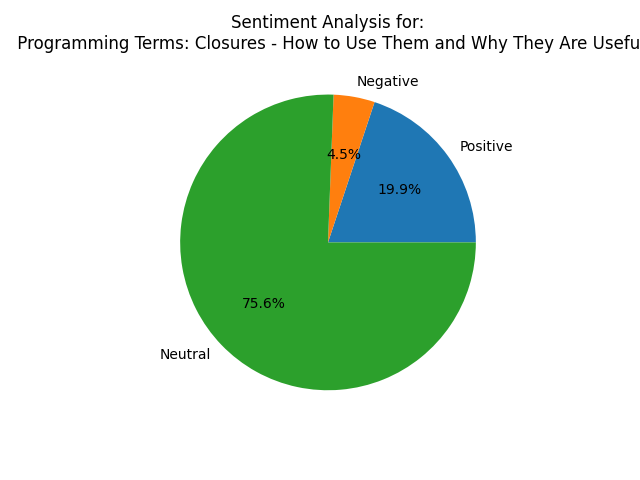
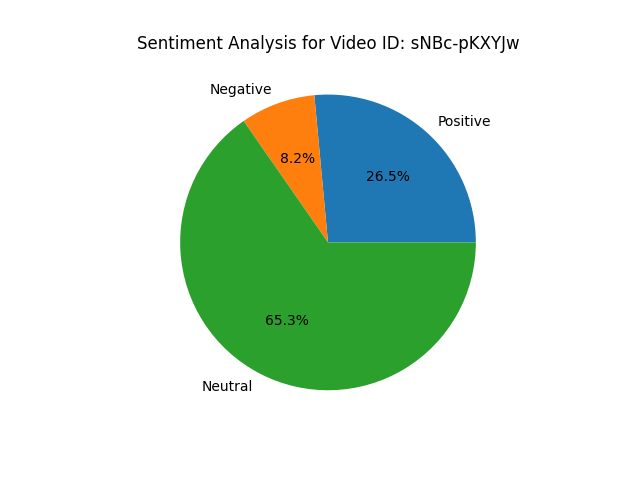
change in code quality

diff --git a/Templates/index.html b/Templates/index.html
@@ -73,21 +73,22 @@
     </form>
 
     <input type="text" id="myInput" onkeyup="myFunction()" placeholder="Search for names..">
-      <table id="myTable">
-        <tr class="header">
-          <th style="width:40%;">Id</th>
-          <th style="width:60%;">Name</th>
-          <th style="width:40%;">Watch</th>
-          <th style="width:40%;">Analyse</th>
-        </tr>
-        {% for video, id in videos %}
-        <tr>
-          <td>{{loop.index}}</td>
-          <td>{{video}}</td>
-          <td><a href="https://www.youtube.com/watch?v={{id}}">Watch</a></td>
-          <td><a href="/anaylse/{{id}}">Analyse</a></td>
-        </tr>
-        {% endfor %}
-      </table>
+    <table id="myTable">
+      <tr class="header">
+          <th style="width:20%;">#</th>
+          <th style="width:40%;">Name</th>
+          <th style="width:20%;">Watch</th>
+          <th style="width:20%;">Analyse</th>
+      </tr>
+      {% for video_id, video_title in videos %}
+      <tr>
+          <td>{{ loop.index }}</td>
+          <td>{{ video_title }}</td>
+          <td><a href="https://www.youtube.com/watch?v={{ video_id }}">Watch</a></td>
+          <td><a href="/analyse/{{ video_id }}">Analyse</a></td>
+      </tr>
+      {% endfor %}
+  </table>
+  
   </body>
 </html>

diff --git a/API.py b/API.py
@@ -1,110 +1,64 @@
-import json
+import os
+import re
 import googleapiclient.discovery
-import nltk, string, re
-from nltk.tokenize import word_tokenize
+import nltk
 from nltk.corpus import stopwords
+from nltk.tokenize import word_tokenize
 from nltk.sentiment.vader import SentimentIntensityAnalyzer
-import matplotlib.pyplot as plt
+import string
+
+# Download necessary NLTK data
 nltk.download('vader_lexicon')
+nltk.download('punkt')
+nltk.download('stopwords')
+
 class YouTubeAPI:
-    get_name = dict()
-    video_data = dict()
-    API_KEY = ""
-    def __init__ (self, API_KEY):
+    def __init__(self):
         api_service_name = "youtube"
         api_version = "v3"
-        self.youtube = googleapiclient.discovery.build(
-            api_service_name, api_version, developerKey=API_KEY)
-        self.API_KEY = API_KEY
+        # developer_key = os.getenv("YOUTUBE_API_KEY")  # Use environment variable for API key
+        developer_key ="AIzaSyC3xxbqxbioB1jCH5gpzT-sT0zXsCbMBn4"  # Use environment variable for API key
+        self.youtube = googleapiclient.discovery.build(api_service_name, api_version, developerKey=developer_key)
 
-
-    # to get the video ids and video names repectively
-    def run(self, CHANNEL_ID):
-        # print(CHANNEL_ID)
+    def get_video_data(self, channel_id, max_results=13):
         request = self.youtube.search().list(
             part="snippet",
             type="video",
-            channelId=CHANNEL_ID,
-            maxResults=13
+            channelId=channel_id,
+            maxResults=max_results
         )
         response = request.execute()
-        for item in response['items']:
-            title = item['snippet']['title']
-            videoId = item['id']['videoId']
-            # print(item,"\n")
-            self.get_name[videoId] = title
-            self.video_data[title] = videoId
-        return self.video_data
+        video_data = {item['id']['videoId']: item['snippet']['title'] for item in response['items']}
+        return video_data
 
+    def get_comments(self, video_id):
+        comments = []
+        next_page_token = None
 
-    # to get the comments of a particular video returns a response
+        while True:
+            response = self.search_comments(video_id, next_page_token)
+            next_page_token, result = self.process_comments_response(response)
+            comments.extend(result)
+            if not next_page_token:
+                break
+
+        return comments
+
     def search_comments(self, video_id, page_token):
         request = self.youtube.commentThreads().list(
             part="snippet",
             videoId=video_id,
             pageToken=page_token,
-            maxResults=1000
+            maxResults=100
         )
-        response = request.execute()
-        return response
-    # retuns a list of comments of a particular video and next page token to scroll through the comments
-    # (Not all the comments can be retrieved at once)
+        return request.execute()
+
     def process_comments_response(self, response):
         next_page_token = response.get('nextPageToken')
-        result = []
-        for i, item in enumerate(response["items"]):
-            comment = item["snippet"]["topLevelComment"]
-            comment_text = comment["snippet"]["textDisplay"]
-            result.append(comment_text)
+        comments = [item["snippet"]["topLevelComment"]["snippet"]["textDisplay"] for item in response["items"]]
+        return next_page_token, comments
 
-        return next_page_token, result
-    
-
-    # Combining search_comments and process_comments_response to get all the comments of a particular video
-    def getComments(self, videoId):
-        comments = []
-        dataExtractor = YouTubeAPI(self.API_KEY)# API Key
-        next_page = None
-        while True:
-            response = dataExtractor.search_comments(videoId, next_page)
-            next_page, result = dataExtractor.process_comments_response(response, self.videos)
-            comments += result
-            if not next_page:
-                break
-        return comments
-    
-    # running the sentiment analysis on the comments using the videoId
-# def getData(APIKEY = "AIzaSyC3xxbqxbioB1jCH5gpzT-sT0zXsCbMBn4", CHANNELID = "UCLj_i7yL-8FZrdQA6eE4iqQ"):
-#     comments = []
-#     dataExtractor = YouTubeAPI(APIKEY)# API Key
-#     videos = list(dataExtractor.run(CHANNELID).keys())#Channel ID
-#     print("Videos: \n", videos)
-#     video_id = dataExtractor.video_data[videos[int(input("Enter the video number: ")) - 1]]
-#     # print(dataExtractor.search_comments(video_id, None))
-#     next_page = None
-#     while True:
-#         response = dataExtractor.search_comments(video_id, next_page)
-#         next_page, result = dataExtractor.process_comments_response(response, videos)
-#         comments += result
-#         if not next_page:
-#             break
-#     return comments
-def getData(APIKEY, CHANNELID, VideoId):
-    dataExtractor = YouTubeAPI(APIKEY)# API Key
-    # video_data = dataExtractor.run(CHANNELID)#Channel ID
-    comments = []
-    next_page = None
-    while True:
-        response = dataExtractor.search_comments(VideoId, next_page)
-        next_page, result = dataExtractor.process_comments_response(response)
-        comments += result
-        if not next_page:
-            break
-    # print(dataExtractor.get_name)
-    # print(dataExtractor.get_name.keys() == dataExtractor.video_data.values())
-    # print(dataExtractor.video_data.keys() == dataExtractor.get_name.values())
-    return comments,dataExtractor.get_name[VideoId]
-def remove_emoji(string):
+def remove_emoji(text):
     emoji_pattern = re.compile("["
                            u"\U0001F600-\U0001F64F"  # emoticons
                            u"\U0001F300-\U0001F5FF"  # symbols & pictographs
@@ -113,26 +67,22 @@ def remove_emoji(string):
                            u"\U00002702-\U000027B0"
                            u"\U000024C2-\U0001F251"
                            "]+", flags=re.UNICODE)
-    return emoji_pattern.sub(r'', string)
-# Filter Copy
-# channel id = UC7IMq6lLHbptAnSucW1pClA
-# video id = D23FmD_5nGs
-def Analyse(CHANNELID, VideoId, APIKEY = "AIzaSyC3xxbqxbioB1jCH5gpzT-sT0zXsCbMBn4"):
-    print("Analysis started")
-    data,videoName = getData(APIKEY, CHANNELID, VideoId)
-    cleaned_text = ""
-    for i in range(len(data)):
-        data[i] = remove_emoji(data[i])
-        data[i] = data[i].lower()
-        data[i] = data[i].translate(str.maketrans('', '', string.punctuation))
-        data[i] = word_tokenize(data[i], language='english')
-        data[i] = [word for word in data[i] if word not in stopwords.words('english')]
-        cleaned_text += " ".join(data[i])
-    score = SentimentIntensityAnalyzer().polarity_scores(cleaned_text)
-    # plt.pie([score['pos'],score['neg'],score['neu']],labels=['Positive','Negative','Neutral'],autopct='%1.1f%%')
-    # plt.show()
-    # plt.savefig('static/images/pie.png')
-    print("Analysis done")
-    return (len(data), videoName, score)
-# Analyse()
-# to get the video name when the video id is given
+    return emoji_pattern.sub(r'', text)
+
+def analyse_comments(comments):
+    cleaned_comments = []
+    for comment in comments:
+        comment = remove_emoji(comment)
+        comment = comment.lower().translate(str.maketrans('', '', string.punctuation))
+        tokens = word_tokenize(comment, language='english')
+        tokens = [word for word in tokens if word not in stopwords.words('english')]
+        cleaned_comments.append(" ".join(tokens))
+
+    all_text = " ".join(cleaned_comments)
+    return SentimentIntensityAnalyzer().polarity_scores(all_text)
+
+# Example usage:
+# yt_api = YouTubeAPI()
+# video_data = yt_api.get_video_data(channel_id="YOUR_CHANNEL_ID")
+# comments = yt_api.get_comments(video_id="A_VIDEO_ID")
+# sentiment_score = analyse_comments(comments)

diff --git a/app.py b/app.py
@@ -1,45 +1,46 @@
-from flask import request, jsonify, Flask, render_template,send_file
+from flask import Flask, request, render_template, send_file, session
 from flask_sqlalchemy import SQLAlchemy
-import  API
+import API
 import matplotlib.pyplot as plt
 import os
-IsAnalysed = False
+
 app = Flask(__name__)
 app.config['SQLALCHEMY_DATABASE_URI'] = 'sqlite:///database.db'
-# app.config['SQLALCHEMY_TRACK_MODIFICATION'] = False
-data_retrieval = API.YouTubeAPI(API_KEY='AIzaSyC3xxbqxbioB1jCH5gpzT-sT0zXsCbMBn4')
-db = SQLAlchemy(app)
+app.config['SQLALCHEMY_TRACK_MODIFICATIONS'] = False
+app.secret_key = os.urandom(24)  # Generate a random secret key for sessions
 
-# ChannelId = "UC7IMq6lLHbptAnSucW1pClA"
+db = SQLAlchemy(app)
+data_retrieval = API.YouTubeAPI()  # Initialize the YouTubeAPI class
+
 @app.route('/')
-def hello_world():
-    # print("Hello world")
-    return render_template('./index.html')
+def index():
+    return render_template('index.html')
 
 @app.route('/search', methods=['GET', 'POST'])
 def search():
-    global ChannelId
-    print("Search function")
     if request.method == 'POST':
-        ChannelId = request.form['ChannelId']
-        print(ChannelId)
-        videos = data_retrieval.run(ChannelId)
-        return render_template('./index.html', videos = zip(list(videos.keys()), list(videos.values())))
-    return render_template('./index.html')
-@app.route('/anaylse/<videoId>')
-def anaylse(videoId):
-    # print("Hello world")    
-    # print(videoId)
-    # print("videoId", videoId)
-    details = API.Analyse(ChannelId, videoId)
-    score = details[-1]
-    # print(details)
-    plt.pie([score['pos'],score['neg'],score['neu']],labels=['Positive','Negative','Neutral'],autopct='%1.1f%%')
-    plt.title("Sentiment Analysis for:\n " + details[1])
-    plt.savefig('./static/images/Analysis.png')
-    return send_file('static/images/Analysis.png', as_attachment=True)
+        session['channel_id'] = request.form['ChannelId']
+        videos = data_retrieval.get_video_data(session['channel_id'])
+        return render_template('index.html', videos=videos.items())  # Pass video ID and title pairs
+    return render_template('index.html')
+
+
+
+@app.route('/analyse/<video_id>')
+def analyse(video_id):
+    if 'channel_id' not in session:
+        return 'Channel ID not specified', 400
+
+    channel_id = session['channel_id']
+    comments = data_retrieval.get_comments(video_id)
+    sentiment_score = API.analyse_comments(comments)
+
+    plt.pie([sentiment_score['pos'], sentiment_score['neg'], sentiment_score['neu']], labels=['Positive', 'Negative', 'Neutral'], autopct='%1.1f%%')
+    plt.title(f"Sentiment Analysis for Video ID: {video_id}")
+    image_path = os.path.join('static', 'images', 'analysis.png')
+    plt.savefig(image_path)
+    plt.close()
+    return send_file(image_path, as_attachment=True)
+
 if __name__ == "__main__":
     app.run(debug=True)
-
-# Corey Shafer
-# https://www.youtube.com/channel/UCCezIgC97PvUuR4_gbFUs5g
